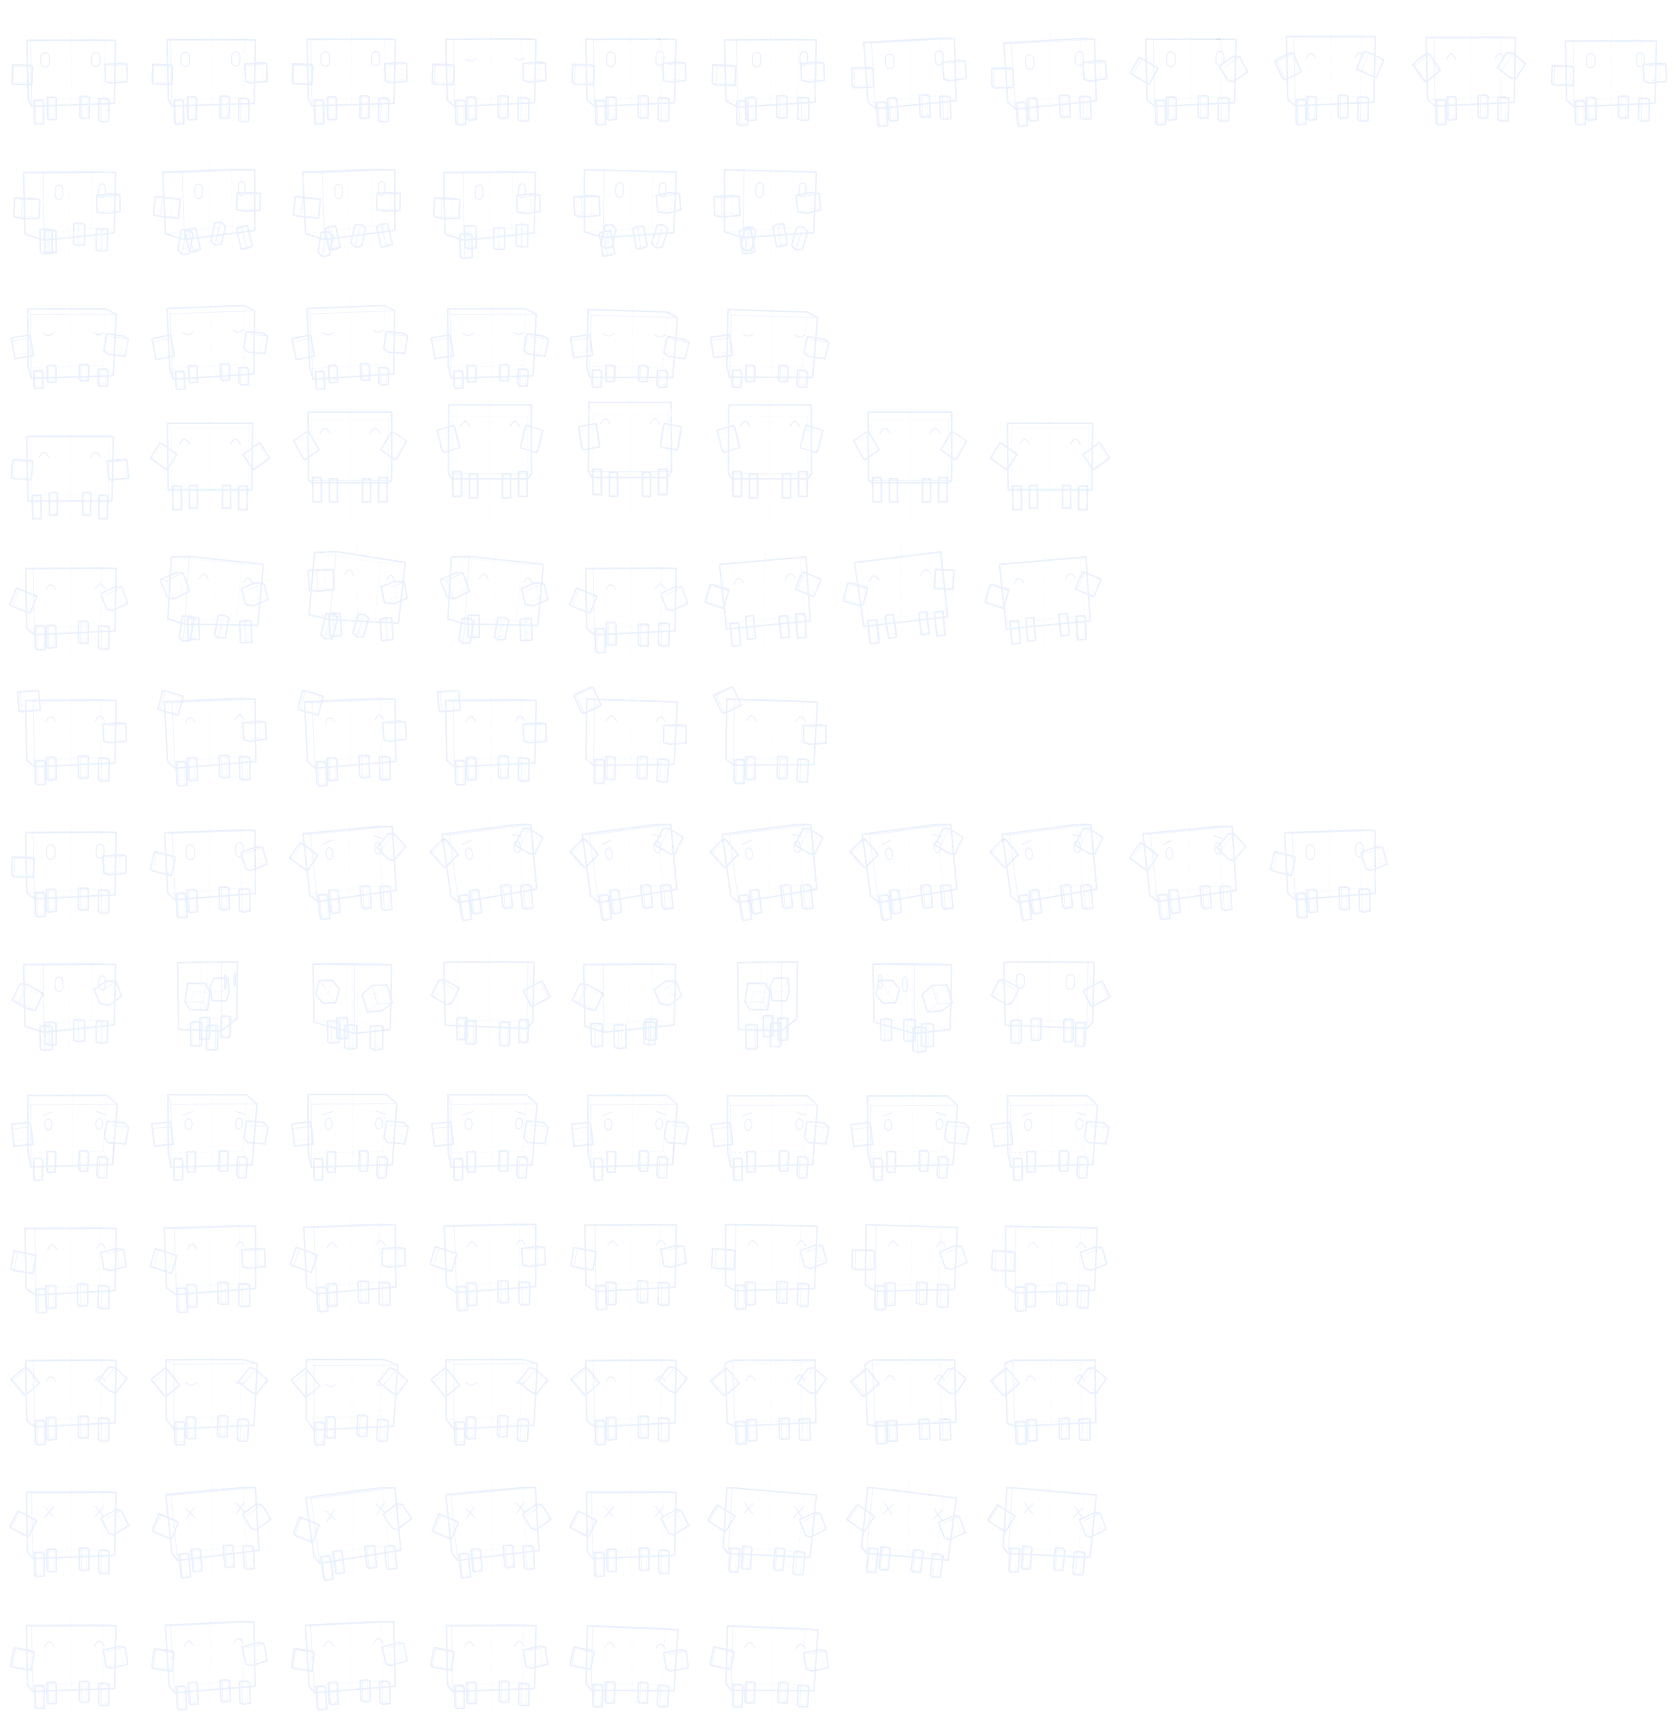
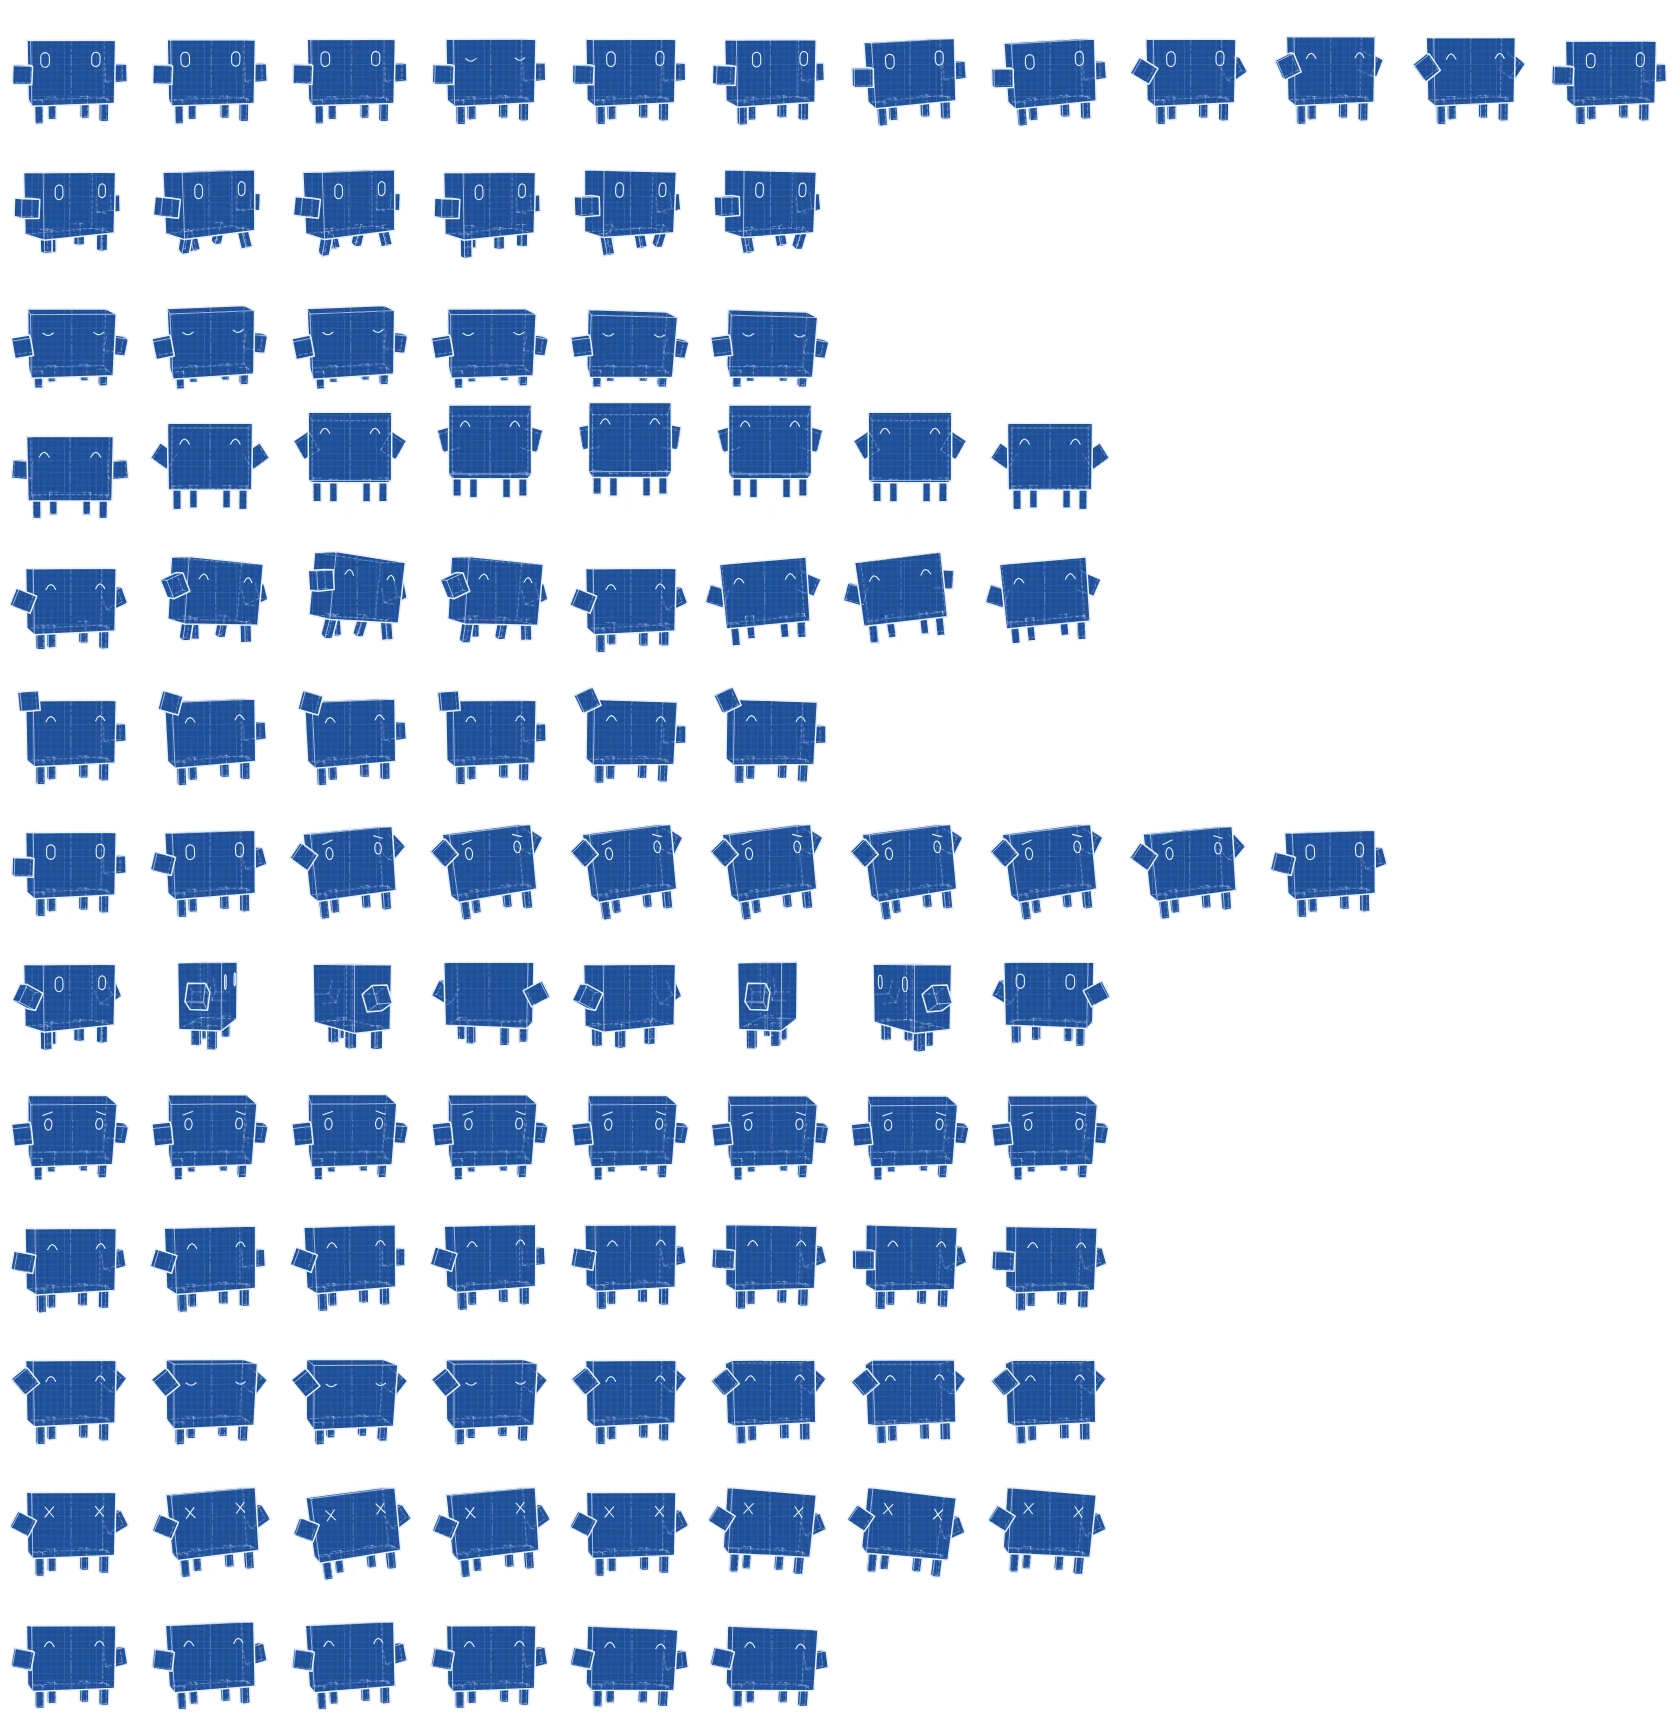
Clawd 0.4.2: include style defs in Clawd sheets (aero jelly gradient was missing)
Claude-Session: https://claude.ai/code/session_0186VTToSB8NU8VX19gAic5c

diff --git a/index-v0.4.2.html b/index-v0.4.2.html
@@ -17,7 +17,7 @@
 <script>
 // Clawd, a pet diorama. Scenery, styles and Clawd's animations come from the
 // Claude Fables plugin (baked to images by src/r1assets.ts).
-const APP_VERSION = '0.4.1';
+const APP_VERSION = '0.4.2';
 const KEY = 'clawd:state';          // namespaced: all creations share one origin
 const MANI = {"cw":70,"ch":66,"scale":2,"bgscale":2.5,"sw":320,"h":128,"floors":{"forest":104,"space":96,"city":104,"desert":104,"volcano":104,"lab":104,"night":104},"motions":{"idle":{"row":0,"frames":12,"dur":6},"walk":{"row":1,"frames":6,"dur":0.64},"sleep":{"row":2,"frames":6,"dur":3.2},"celebrate":{"row":3,"frames":8,"dur":0.7},"dance":{"row":4,"frames":8,"dur":0.9},"wave":{"row":5,"frames":6,"dur":0.8},"shrug":{"row":6,"frames":10,"dur":1.8},"spin":{"row":7,"frames":8,"dur":0.8},"sad":{"row":8,"frames":8,"dur":3},"happy":{"row":9,"frames":8,"dur":1.2},"eat":{"row":10,"frames":8,"dur":0.8},"dizzy":{"row":11,"frames":8,"dur":0.9},"pet":{"row":12,"frames":6,"dur":1}},"anchors":{"idle":[[69.5,40.5,88.6,66.1,70.5,59.7,50.8,-0.011,1],[69.5,39.9,88.3,66.5,70.5,59.2,50.6,-0.011,1],[69.5,39.4,88.1,66.8,70.5,58.9,50.4,-0.01,1],[69.2,39.2,90.1,67.5,75.4,59.6,49,-0.017,1],[69.2,39.4,90.1,67.4,75.4,58.8,49.1,-0.016,1],[69,39.9,91.6,67.7,80.2,59.1,47.2,-0.023,1],[67.5,40.6,92.2,70.6,74.5,59.7,49.5,-0.069,1],[67.5,41.2,92.5,70.2,74.6,60.2,49.7,-0.07,1],[69.2,39.3,90.1,67.5,75.4,58.7,49,-0.016,1],[69.3,36.7,88.9,69.2,75.4,55.6,48.3,-0.014,1],[69.2,37.5,89.2,68.6,75.4,56.2,48.6,-0.014,1],[69.2,41.1,91,66.3,75.5,60.2,49.6,-0.017,1]],"walk":[[68.7,40.5,91.9,68.2,80.6,59.5,43,-0.037,1],[67.9,39,92.1,70.1,80.2,58,43.2,-0.066,1],[67.9,39,92.1,70.1,80.2,58,43.2,-0.066,1],[68.7,40.5,91.9,68.2,80.6,59.5,43,-0.037,1],[70.3,37.9,92,67.6,81,58,42.9,-0.003,1],[70.3,37.9,92,67.6,81,58,42.9,-0.003,1]],"sleep":[[70,47.7,88.6,69.5,73.5,70,50.7,-0.014,1],[69,45.7,87.5,73.5,73,68.4,50.1,-0.048,1],[69,45.7,87.5,73.5,73,68.4,50.1,-0.048,1],[70,47.7,88.6,69.5,73.5,70,50.7,-0.014,1],[71,49.6,90.8,68,73.9,71.5,51.3,0.02,1],[71,49.6,90.8,68,73.9,71.5,51.3,0.02,1]],"celebrate":[[70,40.5,86.7,64.8,70,58.7,51.6,0,1],[70,27.2,85.1,66.8,70,45.7,50.8,0,1],[70,16.2,83.7,70.6,70,34.9,50.2,0,1],[70,9.1,83.2,73.8,70,27.8,49.8,0,1],[70,6.6,83.1,74.8,70,25.3,49.6,0,1],[70,9.1,83.2,73.8,70,27.8,49.8,0,1],[70,16.2,83.7,70.6,70,34.9,50.2,0,1],[70,27.2,85.1,66.8,70,45.7,50.8,0,1]],"dance":[[69.2,40.5,90.7,66.7,75.5,58.7,49.4,-0.016,1],[75.6,28.6,95.6,68.8,86.1,50.4,44.5,0.079,1],[77.2,23.5,96.4,71.7,90.3,47,41.7,0.13,1],[75.6,28.6,95.6,68.8,86.1,50.4,44.5,0.079,1],[69.2,40.5,90.7,66.7,75.5,58.7,49.4,-0.016,1],[61.8,32.7,90.9,72.1,64.4,50.6,51.7,-0.088,1],[61.1,23.9,93.1,74.6,59.8,47.2,51.8,-0.121,1],[61.8,32.7,90.9,72.1,64.4,50.6,51.7,-0.088,1]],"wave":[[69.2,40.5,90.7,66.7,75.5,58.7,49.4,-0.016,1],[68,40.5,91.3,69.4,74.8,58.7,49.5,-0.052,1],[68,40.5,91.3,69.4,74.8,58.7,49.5,-0.052,1],[69.2,40.5,90.7,66.7,75.5,58.7,49.4,-0.016,1],[70.4,40.5,91.4,66.4,76.2,58.7,49.3,0.02,1],[70.4,40.5,91.4,66.4,76.2,58.7,49.3,0.02,1]],"shrug":[[69.2,40.5,90.7,66.7,75.5,59.7,49.4,-0.017,1],[68.1,39.7,90.7,69.7,74.9,59,49.2,-0.049,1],[66,38.3,93.2,75.1,48.5,55.9,11.6,1.402,1],[64.9,37.6,94.5,78,47.9,56.1,11.7,1.372,1],[64.9,37.6,94.5,78,47.9,56.1,11.7,1.372,1],[64.9,37.6,94.5,78,47.9,56.1,11.7,1.372,1],[64.9,37.6,94.5,78,47.9,56.1,11.7,1.372,1],[64.9,37.6,94.5,78,47.9,56.1,11.7,1.372,1],[66,38.3,93.2,75.1,48.5,55.9,11.6,1.402,1],[68.1,39.7,90.7,69.7,74.9,59,49.2,-0.049,1]],"spin":[[68.7,40.5,91.9,68.2,80.6,59.5,43,-0.037,1],[69.3,38.4,59.8,69.1,90.1,56.7,9.7,-0.264,1],[71.3,40.5,78.6,69.6,72.2,60.7,35.4,0,0],[70.7,38.4,90,66.3,68.9,58,40.5,0,0],[68.7,40.5,91.9,68.2,69.6,60.4,41.4,0,0],[69.3,38.4,59.8,69.1,67.6,58.7,26.9,0,0],[71.3,40.5,78.6,69.6,52.5,59.2,24.7,0.101,1],[70.7,38.4,90,66.3,65.3,57.5,50,0.013,1]],"sad":[[70.6,44,89.5,71.9,48,63.1,10.8,1.503,1],[70.6,43.5,89,72.4,48.1,62.7,10.9,1.505,1],[70.7,43.3,88.8,72.6,48.1,62.5,11,1.505,1],[70.6,43.5,89,72.4,48.1,62.7,10.9,1.505,1],[70.6,44,89.5,71.9,48,63.1,10.8,1.503,1],[70.6,44.5,89.9,71.3,47.9,63.5,10.7,1.502,1],[70.6,44.7,90.1,71.1,47.8,63.7,10.7,1.501,1],[70.6,44.5,89.9,71.3,47.9,63.5,10.7,1.502,1]],"happy":[[69.1,40.5,91.5,67,76.5,58.7,48.4,-0.02,1],[68.4,39.2,91.5,68.6,76.1,57.3,48.5,-0.041,1],[68,38.1,92,69.2,76,56.1,48.6,-0.05,1],[68.4,37.3,91.6,68.5,76.1,55.3,48.6,-0.04,1],[69.1,37,91.6,66.7,76.6,55,48.5,-0.017,1],[69.8,37.2,91.6,66.6,77,55.3,48.5,0.006,1],[71.4,36.7,92,66.6,77.1,56.1,48.4,0.015,1],[69.8,39.1,91.5,66.6,77,57.3,48.4,0.004,1]],"eat":[[69.2,40.5,90.7,66.7,75.5,58.7,49.4,-0.016,1],[70,41.8,91.2,69.6,75.9,63.7,49.4,-0.019,1],[70.4,42.4,91.5,70.6,76,65,49.5,-0.02,1],[70,41.8,91.2,69.6,75.9,63.7,49.4,-0.019,1],[69.2,40.5,90.7,66.7,75.5,58.7,49.4,-0.016,1],[70.4,39.9,90.6,66.3,75,57.9,49.2,-0.016,1],[70.5,39.7,91.1,66.2,74.8,57.6,49.2,-0.015,1],[70.4,39.9,90.6,66.3,75,57.9,49.2,-0.016,1]],"dizzy":[[69.4,40.5,89.6,66.3,49.3,60,0,0.822,1],[68.8,39.3,93.2,72.9,50.3,60.9,0,0.651,1],[68.6,40.9,94.9,75.5,50.8,63.3,0,0.579,1],[68.8,39.3,93.2,72.9,50.3,60.9,0,0.651,1],[69.4,40.5,89.6,66.3,49.3,60,0,0.822,1],[69.8,35.6,93.1,69.9,48.5,56.4,0,0.992,1],[69,35.6,94.7,72.5,48.2,57,0,1.061,1],[69.8,35.6,93.1,69.9,48.5,56.4,0,0.992,1]],"pet":[[69.4,41.7,89.6,66.4,74.4,59.9,50.2,-0.013,1],[67.8,39.6,89.7,71.2,73.5,58.2,49.6,-0.057,1],[67.8,39.6,89.7,71.2,73.5,58.2,49.6,-0.057,1],[69.4,41.7,89.6,66.4,74.4,59.9,50.2,-0.013,1],[70.8,43.8,91.9,65.1,75.3,61.6,50.7,0.031,1],[70.8,43.8,91.9,65.1,75.3,61.6,50.7,0.031,1]]}};
 const LOOKS = [{"name":"pixel","label":"Pixel Art","card":"#f6f1e7","ink":"#2b2420","accent":"#d97757","edge":"#1b1b2b"},{"name":"original","label":"Original","card":"#f6f1e7","ink":"#2b2420","accent":"#d97757","edge":"#1b1b2b"},{"name":"cave","label":"Cave Painting","card":"#e2d2b0","ink":"#2e2119","accent":"#1b130f","edge":"#cdb892"},{"name":"blueprint","label":"Blueprint","card":"#173e80","ink":"#e8f0ff","accent":"#e8f0ff","edge":"#1f4f9a"},{"name":"mosaic","label":"Mosaic","card":"#f1ead8","ink":"#2c2723","accent":"#a5452f","edge":"#e8dec6"},{"name":"aero","label":"Frutiger Aero","card":"#f4fbff","ink":"#14385a","accent":"#ffffff","edge":"#0d78dc"},{"name":"engraving","label":"Copperplate Engraving","card":"#f6f0e2","ink":"#1c1611","accent":"#1c1611","edge":"#f2ebda"},{"name":"tapestry","label":"Millefleur Tapestry","card":"#efe2c0","ink":"#2a2418","accent":"#efe2c0","edge":"#2f4a6a"},{"name":"golden","label":"Golden Age Comic","card":"#fffbe8","ink":"#16120f","accent":"#16120f","edge":"#f1dfa9"},{"name":"ukiyoe","label":"Ukiyo-e","card":"#f3ead6","ink":"#1a2238","accent":"#1a2238","edge":"#e9dcc0"},{"name":"kamon","label":"Kamon","card":"#1a1816","ink":"#eee7d7","accent":"#eee7d7","edge":"#1a1816"}];

diff --git a/index.html b/index.html
@@ -17,7 +17,7 @@
 <script>
 // Clawd, a pet diorama. Scenery, styles and Clawd's animations come from the
 // Claude Fables plugin (baked to images by src/r1assets.ts).
-const APP_VERSION = '0.4.1';
+const APP_VERSION = '0.4.2';
 const KEY = 'clawd:state';          // namespaced: all creations share one origin
 const MANI = {"cw":70,"ch":66,"scale":2,"bgscale":2.5,"sw":320,"h":128,"floors":{"forest":104,"space":96,"city":104,"desert":104,"volcano":104,"lab":104,"night":104},"motions":{"idle":{"row":0,"frames":12,"dur":6},"walk":{"row":1,"frames":6,"dur":0.64},"sleep":{"row":2,"frames":6,"dur":3.2},"celebrate":{"row":3,"frames":8,"dur":0.7},"dance":{"row":4,"frames":8,"dur":0.9},"wave":{"row":5,"frames":6,"dur":0.8},"shrug":{"row":6,"frames":10,"dur":1.8},"spin":{"row":7,"frames":8,"dur":0.8},"sad":{"row":8,"frames":8,"dur":3},"happy":{"row":9,"frames":8,"dur":1.2},"eat":{"row":10,"frames":8,"dur":0.8},"dizzy":{"row":11,"frames":8,"dur":0.9},"pet":{"row":12,"frames":6,"dur":1}},"anchors":{"idle":[[69.5,40.5,88.6,66.1,70.5,59.7,50.8,-0.011,1],[69.5,39.9,88.3,66.5,70.5,59.2,50.6,-0.011,1],[69.5,39.4,88.1,66.8,70.5,58.9,50.4,-0.01,1],[69.2,39.2,90.1,67.5,75.4,59.6,49,-0.017,1],[69.2,39.4,90.1,67.4,75.4,58.8,49.1,-0.016,1],[69,39.9,91.6,67.7,80.2,59.1,47.2,-0.023,1],[67.5,40.6,92.2,70.6,74.5,59.7,49.5,-0.069,1],[67.5,41.2,92.5,70.2,74.6,60.2,49.7,-0.07,1],[69.2,39.3,90.1,67.5,75.4,58.7,49,-0.016,1],[69.3,36.7,88.9,69.2,75.4,55.6,48.3,-0.014,1],[69.2,37.5,89.2,68.6,75.4,56.2,48.6,-0.014,1],[69.2,41.1,91,66.3,75.5,60.2,49.6,-0.017,1]],"walk":[[68.7,40.5,91.9,68.2,80.6,59.5,43,-0.037,1],[67.9,39,92.1,70.1,80.2,58,43.2,-0.066,1],[67.9,39,92.1,70.1,80.2,58,43.2,-0.066,1],[68.7,40.5,91.9,68.2,80.6,59.5,43,-0.037,1],[70.3,37.9,92,67.6,81,58,42.9,-0.003,1],[70.3,37.9,92,67.6,81,58,42.9,-0.003,1]],"sleep":[[70,47.7,88.6,69.5,73.5,70,50.7,-0.014,1],[69,45.7,87.5,73.5,73,68.4,50.1,-0.048,1],[69,45.7,87.5,73.5,73,68.4,50.1,-0.048,1],[70,47.7,88.6,69.5,73.5,70,50.7,-0.014,1],[71,49.6,90.8,68,73.9,71.5,51.3,0.02,1],[71,49.6,90.8,68,73.9,71.5,51.3,0.02,1]],"celebrate":[[70,40.5,86.7,64.8,70,58.7,51.6,0,1],[70,27.2,85.1,66.8,70,45.7,50.8,0,1],[70,16.2,83.7,70.6,70,34.9,50.2,0,1],[70,9.1,83.2,73.8,70,27.8,49.8,0,1],[70,6.6,83.1,74.8,70,25.3,49.6,0,1],[70,9.1,83.2,73.8,70,27.8,49.8,0,1],[70,16.2,83.7,70.6,70,34.9,50.2,0,1],[70,27.2,85.1,66.8,70,45.7,50.8,0,1]],"dance":[[69.2,40.5,90.7,66.7,75.5,58.7,49.4,-0.016,1],[75.6,28.6,95.6,68.8,86.1,50.4,44.5,0.079,1],[77.2,23.5,96.4,71.7,90.3,47,41.7,0.13,1],[75.6,28.6,95.6,68.8,86.1,50.4,44.5,0.079,1],[69.2,40.5,90.7,66.7,75.5,58.7,49.4,-0.016,1],[61.8,32.7,90.9,72.1,64.4,50.6,51.7,-0.088,1],[61.1,23.9,93.1,74.6,59.8,47.2,51.8,-0.121,1],[61.8,32.7,90.9,72.1,64.4,50.6,51.7,-0.088,1]],"wave":[[69.2,40.5,90.7,66.7,75.5,58.7,49.4,-0.016,1],[68,40.5,91.3,69.4,74.8,58.7,49.5,-0.052,1],[68,40.5,91.3,69.4,74.8,58.7,49.5,-0.052,1],[69.2,40.5,90.7,66.7,75.5,58.7,49.4,-0.016,1],[70.4,40.5,91.4,66.4,76.2,58.7,49.3,0.02,1],[70.4,40.5,91.4,66.4,76.2,58.7,49.3,0.02,1]],"shrug":[[69.2,40.5,90.7,66.7,75.5,59.7,49.4,-0.017,1],[68.1,39.7,90.7,69.7,74.9,59,49.2,-0.049,1],[66,38.3,93.2,75.1,48.5,55.9,11.6,1.402,1],[64.9,37.6,94.5,78,47.9,56.1,11.7,1.372,1],[64.9,37.6,94.5,78,47.9,56.1,11.7,1.372,1],[64.9,37.6,94.5,78,47.9,56.1,11.7,1.372,1],[64.9,37.6,94.5,78,47.9,56.1,11.7,1.372,1],[64.9,37.6,94.5,78,47.9,56.1,11.7,1.372,1],[66,38.3,93.2,75.1,48.5,55.9,11.6,1.402,1],[68.1,39.7,90.7,69.7,74.9,59,49.2,-0.049,1]],"spin":[[68.7,40.5,91.9,68.2,80.6,59.5,43,-0.037,1],[69.3,38.4,59.8,69.1,90.1,56.7,9.7,-0.264,1],[71.3,40.5,78.6,69.6,72.2,60.7,35.4,0,0],[70.7,38.4,90,66.3,68.9,58,40.5,0,0],[68.7,40.5,91.9,68.2,69.6,60.4,41.4,0,0],[69.3,38.4,59.8,69.1,67.6,58.7,26.9,0,0],[71.3,40.5,78.6,69.6,52.5,59.2,24.7,0.101,1],[70.7,38.4,90,66.3,65.3,57.5,50,0.013,1]],"sad":[[70.6,44,89.5,71.9,48,63.1,10.8,1.503,1],[70.6,43.5,89,72.4,48.1,62.7,10.9,1.505,1],[70.7,43.3,88.8,72.6,48.1,62.5,11,1.505,1],[70.6,43.5,89,72.4,48.1,62.7,10.9,1.505,1],[70.6,44,89.5,71.9,48,63.1,10.8,1.503,1],[70.6,44.5,89.9,71.3,47.9,63.5,10.7,1.502,1],[70.6,44.7,90.1,71.1,47.8,63.7,10.7,1.501,1],[70.6,44.5,89.9,71.3,47.9,63.5,10.7,1.502,1]],"happy":[[69.1,40.5,91.5,67,76.5,58.7,48.4,-0.02,1],[68.4,39.2,91.5,68.6,76.1,57.3,48.5,-0.041,1],[68,38.1,92,69.2,76,56.1,48.6,-0.05,1],[68.4,37.3,91.6,68.5,76.1,55.3,48.6,-0.04,1],[69.1,37,91.6,66.7,76.6,55,48.5,-0.017,1],[69.8,37.2,91.6,66.6,77,55.3,48.5,0.006,1],[71.4,36.7,92,66.6,77.1,56.1,48.4,0.015,1],[69.8,39.1,91.5,66.6,77,57.3,48.4,0.004,1]],"eat":[[69.2,40.5,90.7,66.7,75.5,58.7,49.4,-0.016,1],[70,41.8,91.2,69.6,75.9,63.7,49.4,-0.019,1],[70.4,42.4,91.5,70.6,76,65,49.5,-0.02,1],[70,41.8,91.2,69.6,75.9,63.7,49.4,-0.019,1],[69.2,40.5,90.7,66.7,75.5,58.7,49.4,-0.016,1],[70.4,39.9,90.6,66.3,75,57.9,49.2,-0.016,1],[70.5,39.7,91.1,66.2,74.8,57.6,49.2,-0.015,1],[70.4,39.9,90.6,66.3,75,57.9,49.2,-0.016,1]],"dizzy":[[69.4,40.5,89.6,66.3,49.3,60,0,0.822,1],[68.8,39.3,93.2,72.9,50.3,60.9,0,0.651,1],[68.6,40.9,94.9,75.5,50.8,63.3,0,0.579,1],[68.8,39.3,93.2,72.9,50.3,60.9,0,0.651,1],[69.4,40.5,89.6,66.3,49.3,60,0,0.822,1],[69.8,35.6,93.1,69.9,48.5,56.4,0,0.992,1],[69,35.6,94.7,72.5,48.2,57,0,1.061,1],[69.8,35.6,93.1,69.9,48.5,56.4,0,0.992,1]],"pet":[[69.4,41.7,89.6,66.4,74.4,59.9,50.2,-0.013,1],[67.8,39.6,89.7,71.2,73.5,58.2,49.6,-0.057,1],[67.8,39.6,89.7,71.2,73.5,58.2,49.6,-0.057,1],[69.4,41.7,89.6,66.4,74.4,59.9,50.2,-0.013,1],[70.8,43.8,91.9,65.1,75.3,61.6,50.7,0.031,1],[70.8,43.8,91.9,65.1,75.3,61.6,50.7,0.031,1]]}};
 const LOOKS = [{"name":"pixel","label":"Pixel Art","card":"#f6f1e7","ink":"#2b2420","accent":"#d97757","edge":"#1b1b2b"},{"name":"original","label":"Original","card":"#f6f1e7","ink":"#2b2420","accent":"#d97757","edge":"#1b1b2b"},{"name":"cave","label":"Cave Painting","card":"#e2d2b0","ink":"#2e2119","accent":"#1b130f","edge":"#cdb892"},{"name":"blueprint","label":"Blueprint","card":"#173e80","ink":"#e8f0ff","accent":"#e8f0ff","edge":"#1f4f9a"},{"name":"mosaic","label":"Mosaic","card":"#f1ead8","ink":"#2c2723","accent":"#a5452f","edge":"#e8dec6"},{"name":"aero","label":"Frutiger Aero","card":"#f4fbff","ink":"#14385a","accent":"#ffffff","edge":"#0d78dc"},{"name":"engraving","label":"Copperplate Engraving","card":"#f6f0e2","ink":"#1c1611","accent":"#1c1611","edge":"#f2ebda"},{"name":"tapestry","label":"Millefleur Tapestry","card":"#efe2c0","ink":"#2a2418","accent":"#efe2c0","edge":"#2f4a6a"},{"name":"golden","label":"Golden Age Comic","card":"#fffbe8","ink":"#16120f","accent":"#16120f","edge":"#f1dfa9"},{"name":"ukiyoe","label":"Ukiyo-e","card":"#f3ead6","ink":"#1a2238","accent":"#1a2238","edge":"#e9dcc0"},{"name":"kamon","label":"Kamon","card":"#1a1816","ink":"#eee7d7","accent":"#eee7d7","edge":"#1a1816"}];

diff --git a/src/r1assets.ts b/src/r1assets.ts
@@ -54,7 +54,7 @@ for (const look of LOOK_NAMES) {
       cells += `<g transform="translate(${k * CW} ${row * CH})">${pixelArt ? `<g filter="url(#sc-pixelize-claude)">${g}</g>` : g}</g>`
     }
   })
-  const defs = pixelArt ? `<defs>${PIXELIZE(SW, { x: 0, y: 0, w: CW, h: CH })}</defs>` : (L.art?.defs ? '' : '')
+  const defs = (pixelArt ? `<defs>${PIXELIZE(SW, { x: 0, y: 0, w: CW, h: CH })}</defs>` : '') + (L.art?.defs ? `<defs>${L.art.defs(SW, 128)}</defs>` : '')
   const svg = `<svg xmlns="http://www.w3.org/2000/svg" width="${COLS * CW * SCALE}" height="${names.length * CH * SCALE}" viewBox="0 0 ${COLS * CW} ${names.length * CH}">${defs}${cells}</svg>`
   writeFileSync(`${out}/sheet-${look}.svg`, svg)
 }

diff --git a/src/index.src.html b/src/index.src.html
@@ -17,7 +17,7 @@
 <script>
 // Clawd, a pet diorama. Scenery, styles and Clawd's animations come from the
 // Claude Fables plugin (baked to images by src/r1assets.ts).
-const APP_VERSION = '0.4.1';
+const APP_VERSION = '0.4.2';
 const KEY = 'clawd:state';          // namespaced: all creations share one origin
 const MANI = /*@MANI@*/null;
 const LOOKS = /*@LOOKS@*/null;
